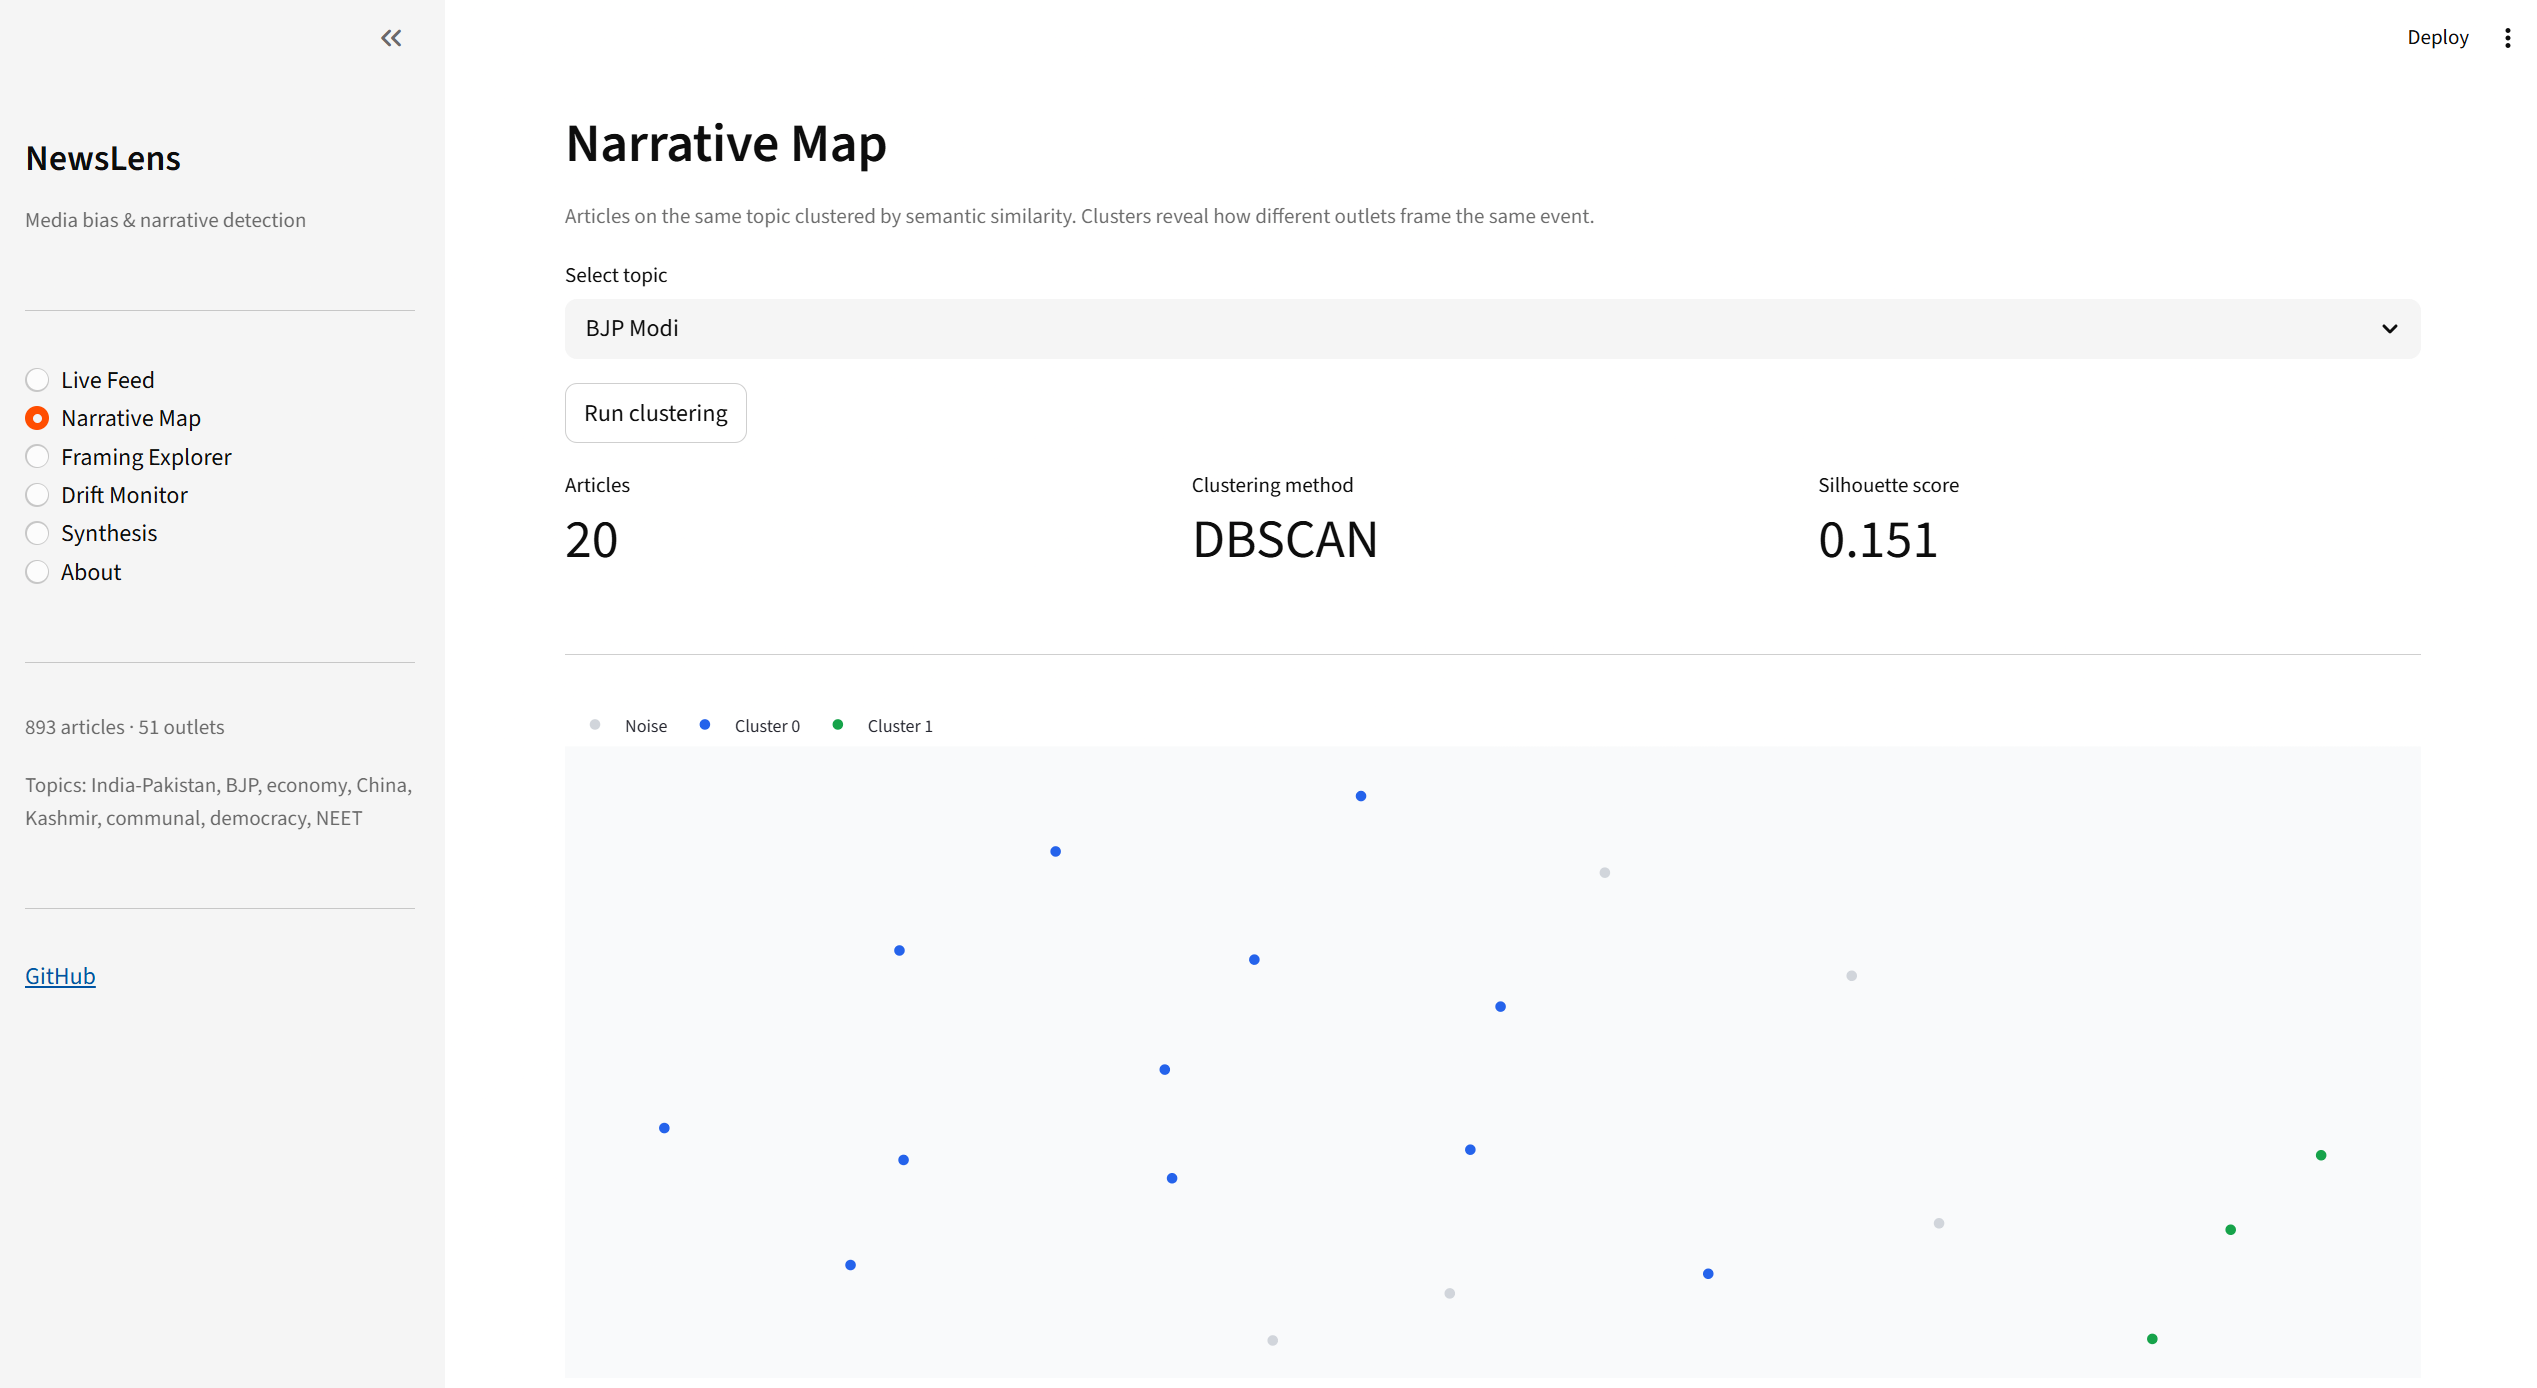
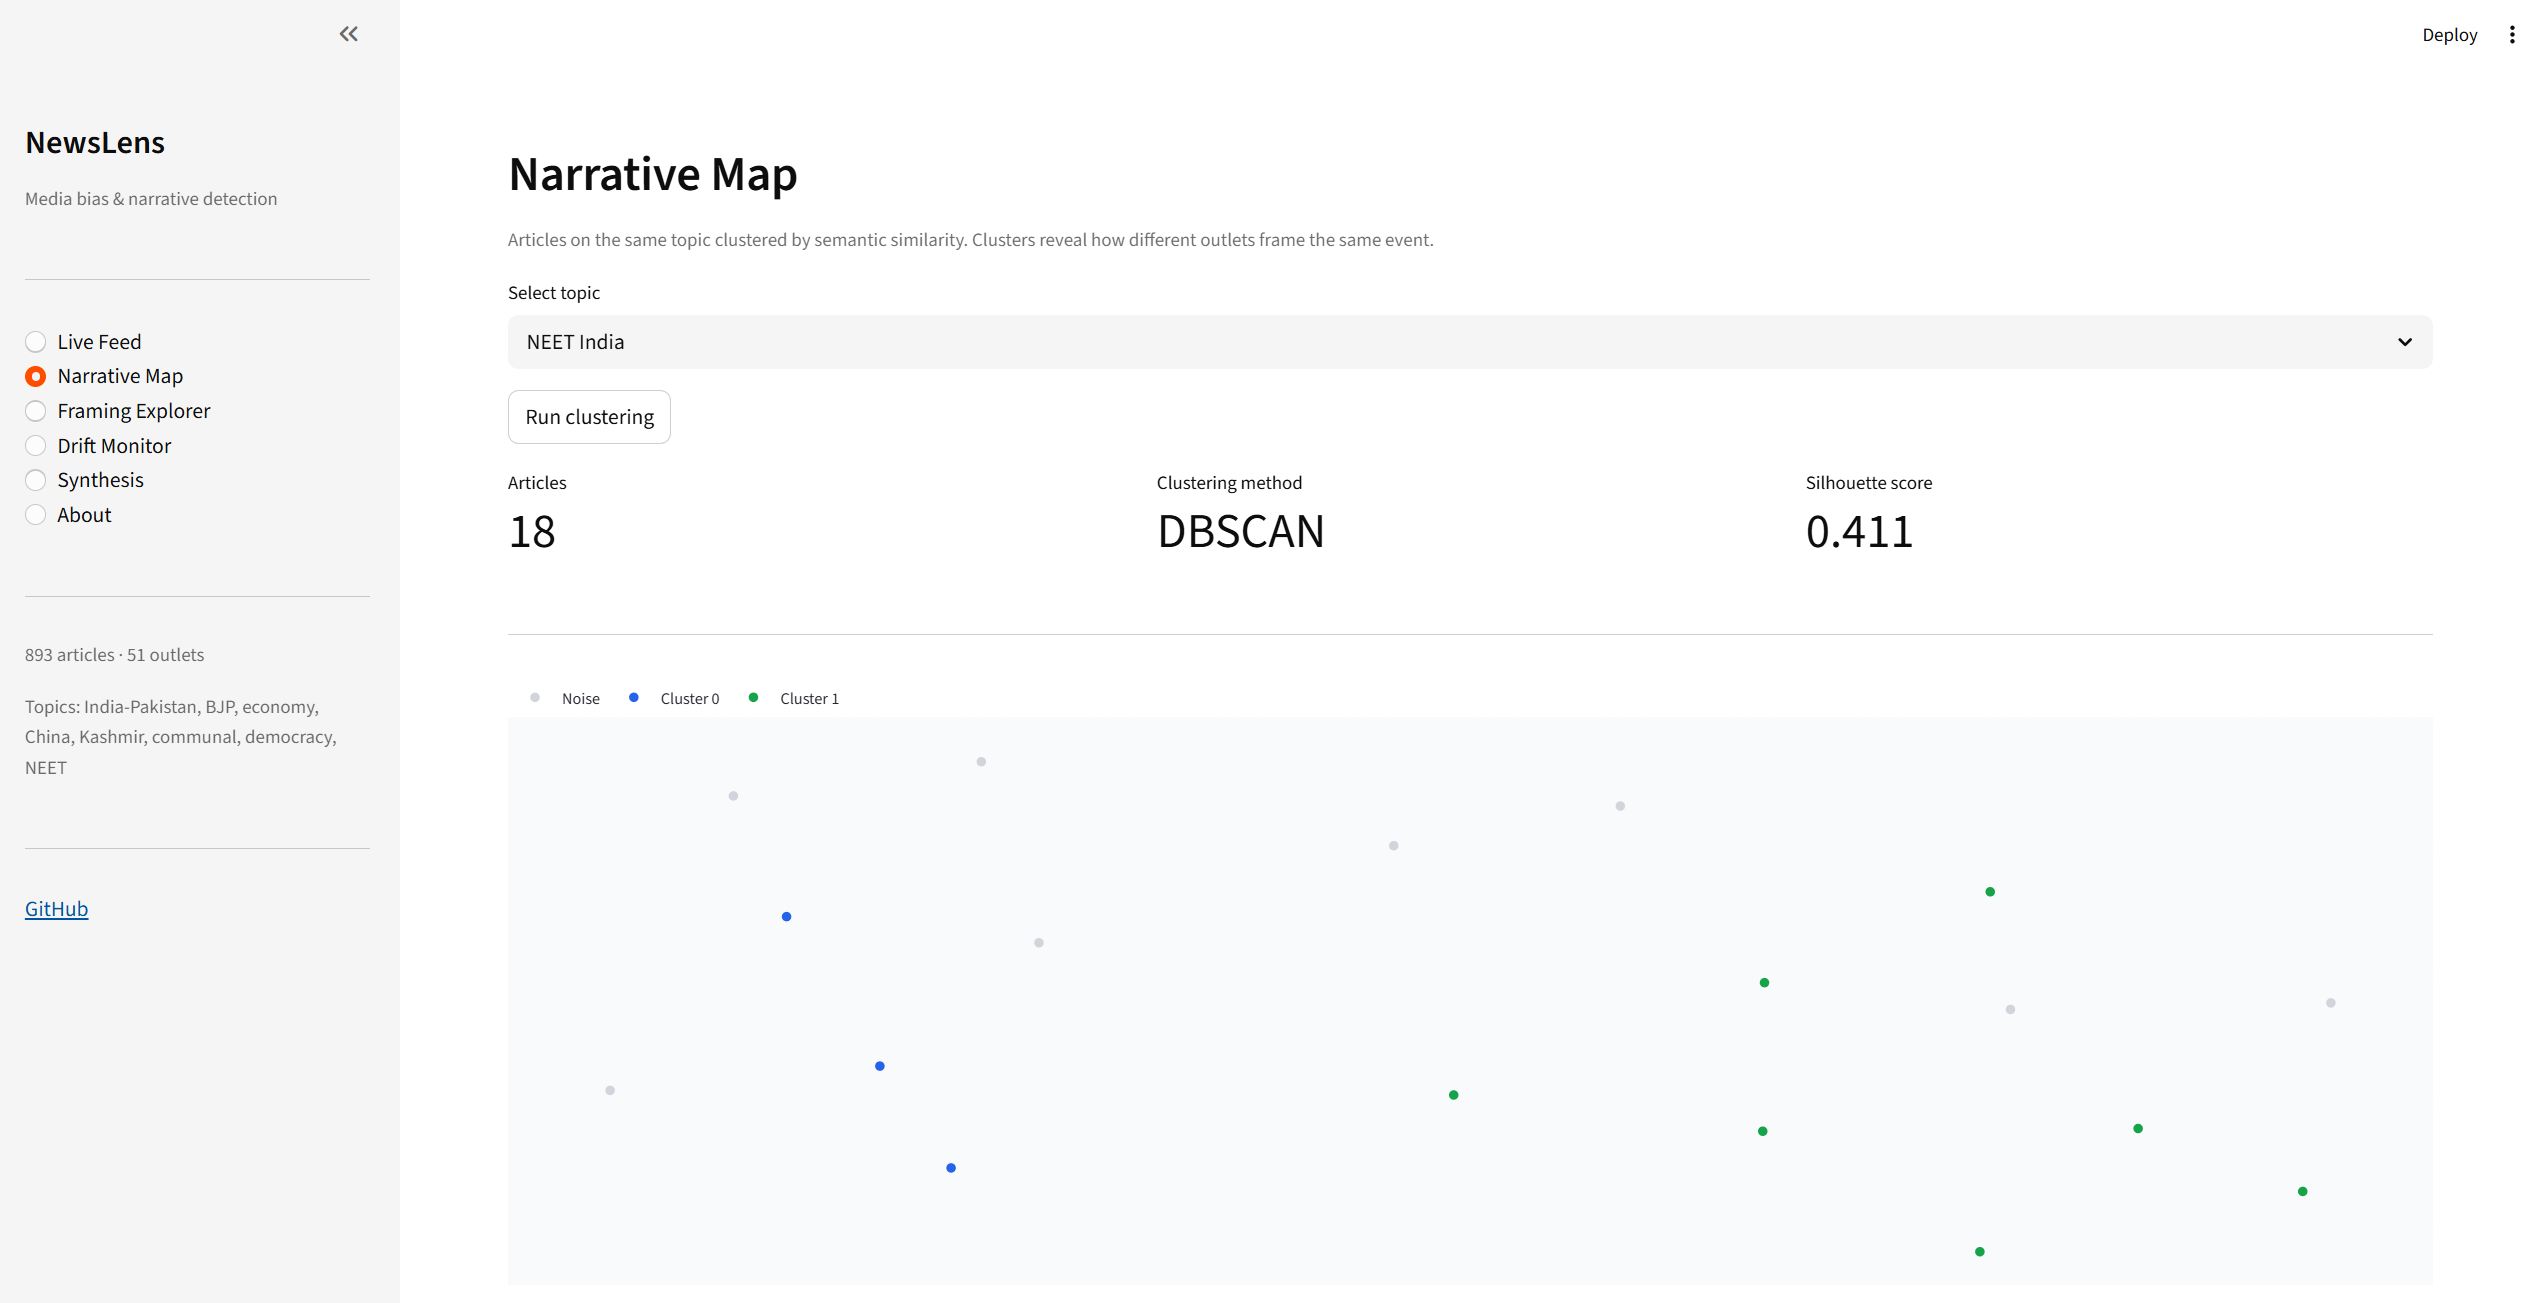
fix synthesis JSON parsing, normalize README screenshot layout, update screenshots

diff --git a/app/views/synthesis.py b/app/views/synthesis.py
@@ -124,6 +124,7 @@ NEUTRAL COVERAGE:
 
 Respond with a JSON object only. Do not include any text before or after the JSON.
 Do not use quotation marks inside string values - rephrase to avoid them.
+Every string value MUST begin AND end with a double quote character.
 Use this exact structure:
 {{
   "factual_summary": "2-3 sentences describing what actually happened based on facts present across multiple articles",
@@ -154,11 +155,33 @@ Use this exact structure:
     except json.JSONDecodeError:
         pass
 
+    # Repair pass: small LLMs sometimes emit  "key": value"  (missing opening quote).
+    # Add the opening quote for any string value that starts with a letter but has no opening quote.
+    repaired = re.sub(
+        r'(":\s*)([A-Za-z][^"\n]*?")',
+        lambda m: m.group(1) + '"' + m.group(2),
+        clean,
+    )
+    try:
+        return json.loads(repaired), raw
+    except json.JSONDecodeError:
+        pass
+
     # Regex fallback: find the outermost {...} block in case the model added preamble/postamble
     match = re.search(r'\{.*\}', clean, re.DOTALL)
     if match:
+        extracted = match.group()
         try:
-            return json.loads(match.group()), raw
+            return json.loads(extracted), raw
+        except json.JSONDecodeError:
+            pass
+        # Repair pass on extracted block too
+        try:
+            return json.loads(re.sub(
+                r'(":\s*)([A-Za-z][^"\n]*?")',
+                lambda m: m.group(1) + '"' + m.group(2),
+                extracted,
+            )), raw
         except json.JSONDecodeError:
             pass
 

diff --git a/src/synthesis.py b/src/synthesis.py
@@ -103,19 +103,33 @@ def _format_articles(articles: list[dict]) -> str:
     return "\n\n".join(parts)
 
 
+def _repair_json_quotes(text: str) -> str:
+    """Fix missing opening quotes: "key": value..."  ->  "key": "value..."""
+    import re
+    return re.sub(
+        r'(":\s*)([A-Za-z][^"\n]*?")',
+        lambda m: m.group(1) + '"' + m.group(2),
+        text,
+    )
+
+
 def _parse_response(raw: str) -> dict | None:
     """
     Parse Ollama JSON output. Returns None on any failure so the caller can
     show a graceful error rather than crashing.
     """
-    try:
-        cleaned = raw.strip().strip("```json").strip("```").strip()
-        parsed  = json.loads(cleaned)
-        if not all(k in parsed for k in ("factual_summary", "agreed_facts", "framing_note")):
-            return None
-        return parsed
-    except (json.JSONDecodeError, AttributeError):
-        return None
+    cleaned = raw.strip().strip("```json").strip("```").strip()
+    required = ("factual_summary", "agreed_facts", "framing_note")
+
+    for candidate in (cleaned, _repair_json_quotes(cleaned)):
+        try:
+            parsed = json.loads(candidate)
+            if all(k in parsed for k in required):
+                return parsed
+        except (json.JSONDecodeError, AttributeError):
+            pass
+
+    return None
 
 
 def synthesize(articles: list[dict]) -> dict | None:

diff --git a/README.md b/README.md
@@ -14,16 +14,44 @@ differences unusually large and measurable.
 
 ## Screenshots
 
-| | |
-|---|---|
-| ![Live Feed](screenshots/live_feed.png) | ![Narrative Map](screenshots/narrative_map.png) |
-| *Live Feed - articles with bias labels and distribution bar* | *Narrative Map - UMAP clusters by topic* |
-| ![Framing Explorer](screenshots/framing_explorer.png) | ![Framing by Outlet](screenshots/framing_by_outlet.png) |
-| *Framing Explorer - top villain/victim/solution phrases* | *Framing by outlet - which outlet blames whom* |
-| ![Synthesis - what happened](screenshots/synthesis_what_happened.png) | ![Synthesis - how it was framed](screenshots/synthesis_how_it_was_framed.png) |
-| *Synthesis - neutral factual summary* | *Synthesis - BJP-aligned vs opposition framing side by side* |
-| ![Drift Monitor](screenshots/drift_monitor.png) | |
-| *Drift Monitor - bias shift over time per outlet* | |
+<table>
+<tr>
+<td width="50%">
+<img src="screenshots/live_feed.png" width="100%" alt="Live Feed">
+<p align="center"><em>Live Feed - articles with bias labels and distribution bar</em></p>
+</td>
+<td width="50%">
+<img src="screenshots/narrative_map.png" width="100%" alt="Narrative Map">
+<p align="center"><em>Narrative Map - UMAP clusters by topic</em></p>
+</td>
+</tr>
+<tr>
+<td width="50%">
+<img src="screenshots/framing_explorer.png" width="100%" alt="Framing Explorer">
+<p align="center"><em>Framing Explorer - top villain/victim/solution phrases</em></p>
+</td>
+<td width="50%">
+<img src="screenshots/framing_by_outlet.png" width="100%" alt="Framing by Outlet">
+<p align="center"><em>Framing by outlet - which outlet blames whom</em></p>
+</td>
+</tr>
+<tr>
+<td width="50%">
+<img src="screenshots/synthesis_what_happened.png" width="100%" alt="Synthesis - What Happened">
+<p align="center"><em>Synthesis - neutral factual summary</em></p>
+</td>
+<td width="50%">
+<img src="screenshots/synthesis_how_it_was_framed.png" width="100%" alt="Synthesis - How It Was Framed">
+<p align="center"><em>Synthesis - BJP-aligned vs opposition framing side by side</em></p>
+</td>
+</tr>
+<tr>
+<td colspan="2" align="center">
+<img src="screenshots/drift_monitor.png" width="75%" alt="Drift Monitor">
+<p align="center"><em>Drift Monitor - bias shift over time per outlet</em></p>
+</td>
+</tr>
+</table>
 
 ---
 
